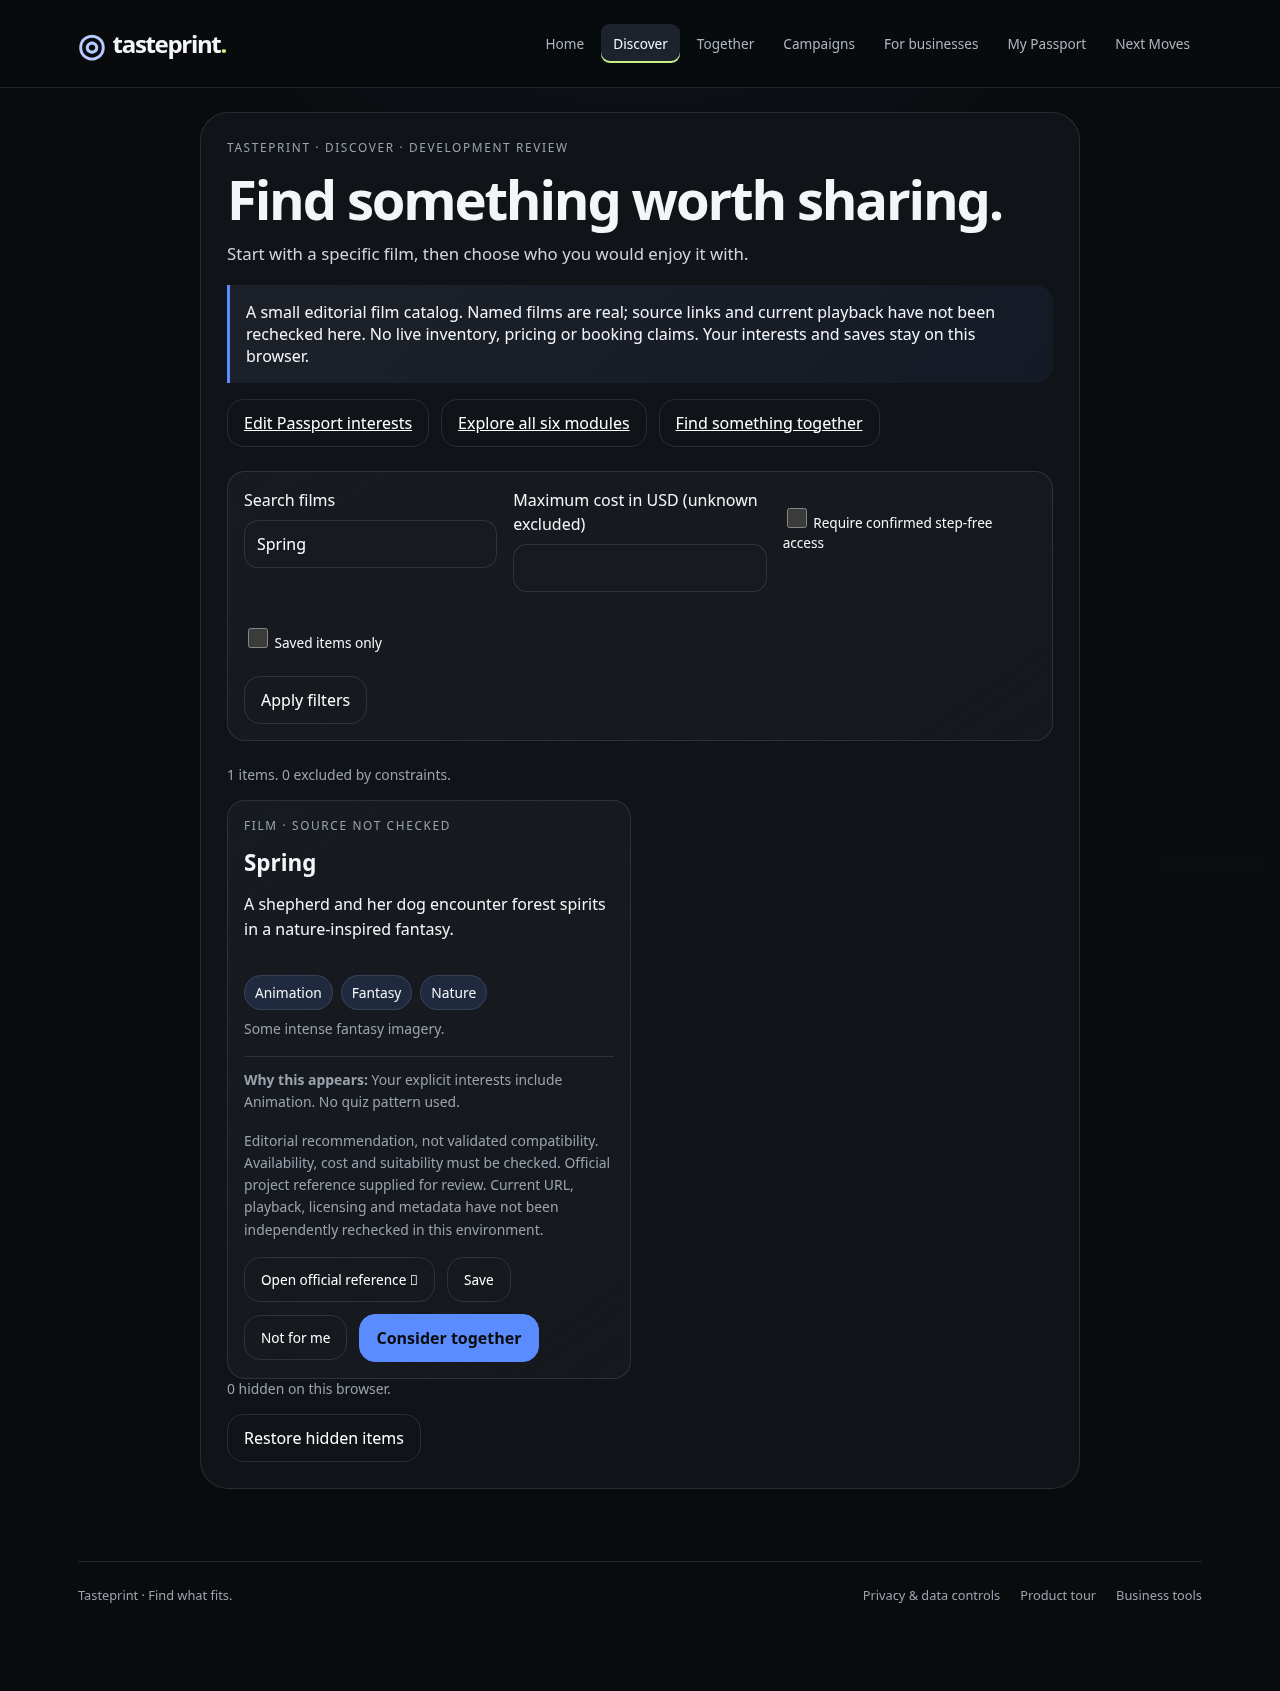
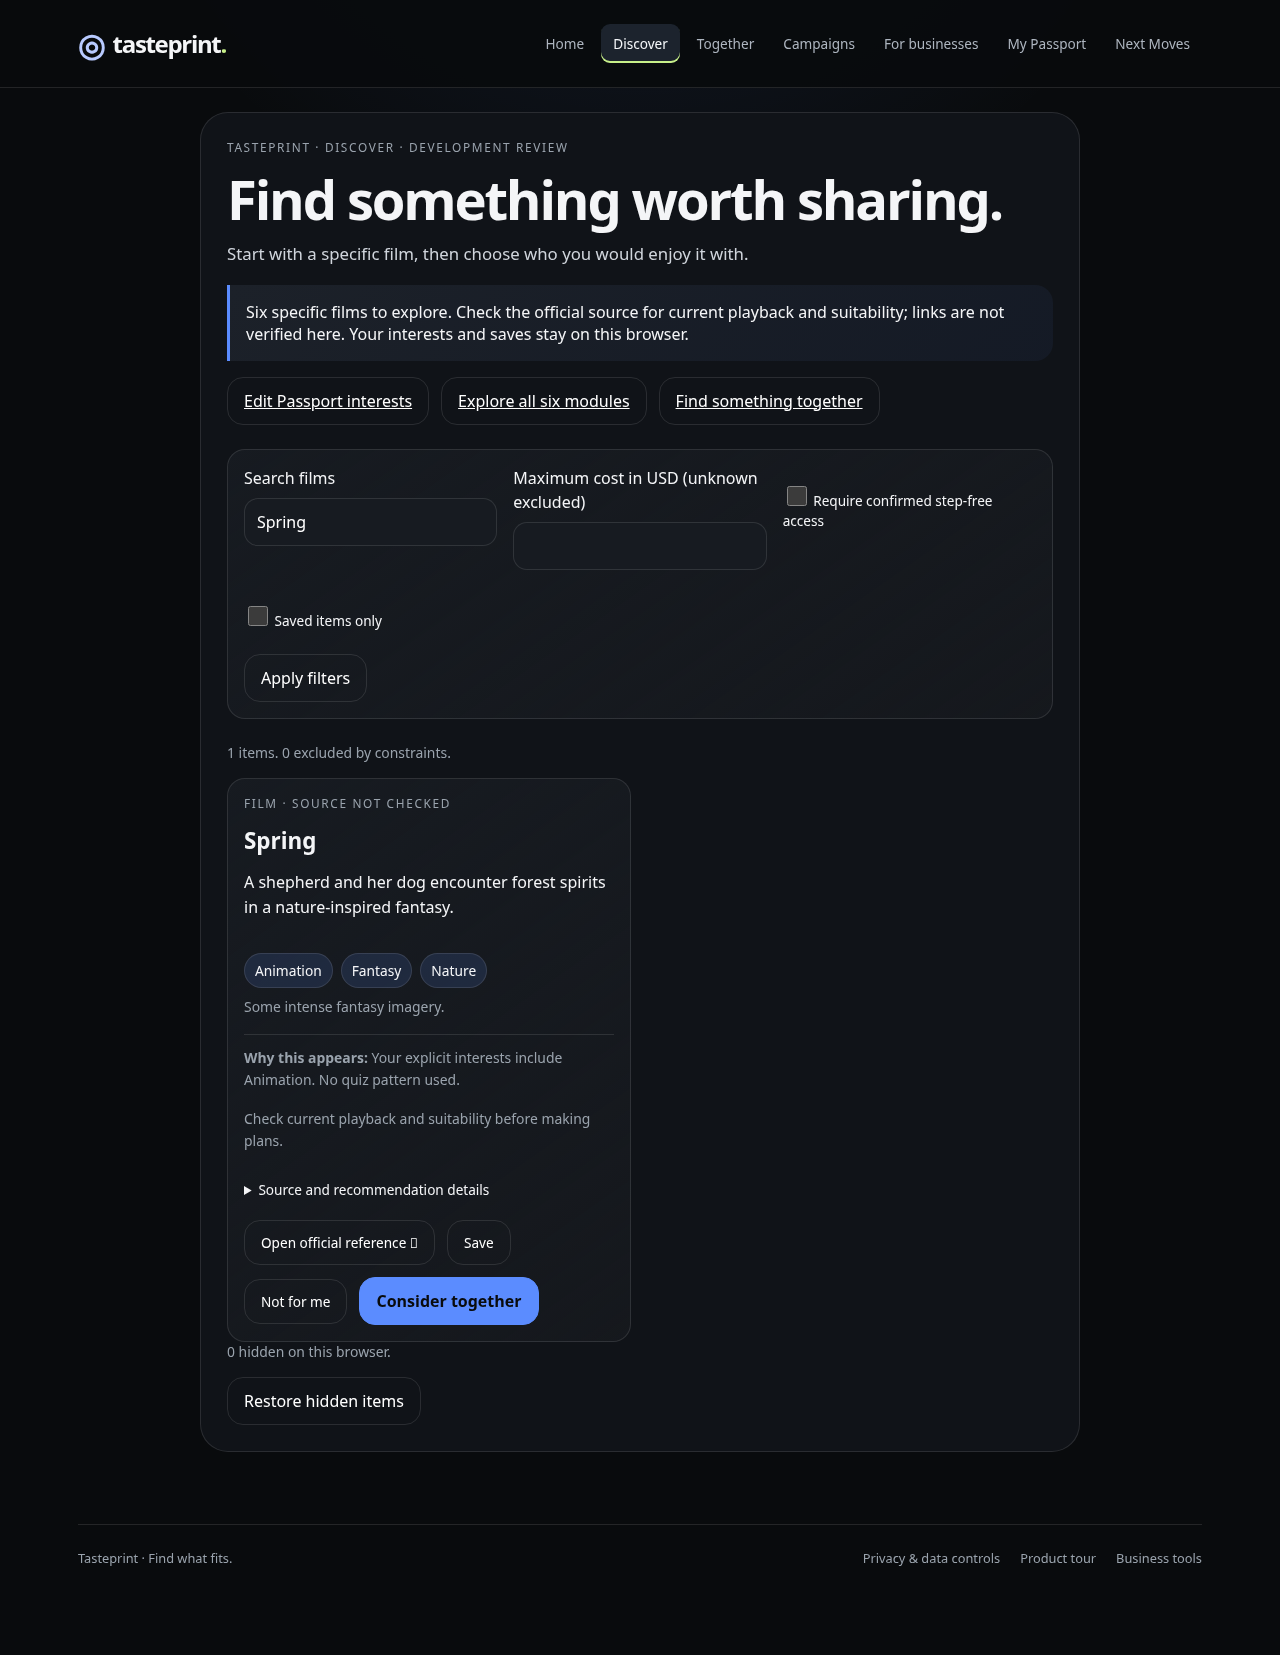
Record current walkthrough and visual checks; guard preview port collisions

diff --git a/scripts/check-review-startup.js b/scripts/check-review-startup.js
@@ -1,0 +1,15 @@
+// An existing HTTP server must never be mistaken for this branch's production preview.
+import { createServer } from 'node:http';
+import { spawn } from 'node:child_process';
+import assert from 'node:assert/strict';
+const occupied = createServer((request,response)=>{response.writeHead(200,{'Content-Type':'text/html'});response.end('<h1>Unrelated preview</h1>');});
+await new Promise(resolve=>occupied.listen(0,'127.0.0.1',resolve));
+const child = spawn(process.execPath,['scripts/review.js','--check'],{env:{...process.env,TASTEPRINT_REVIEW_PORT:String(occupied.address().port)},stdio:['ignore','pipe','pipe']});
+let output='';const collect=data=>{output+=data;if(output.includes('LOCAL REVIEW:'))child.kill('SIGTERM');};
+child.stdout.on('data',collect);child.stderr.on('data',collect);
+const timeout=setTimeout(()=>child.kill('SIGTERM'),20000);
+try{
+ const code=await new Promise((resolve,reject)=>{child.once('error',reject);child.once('exit',resolve);});
+ assert.equal(code,1,'occupied port must fail clearly');assert.doesNotMatch(output,/LOCAL REVIEW:/,'must not announce an unrelated server as ready');assert.match(output,/already in use/);
+ console.log('Preview startup PASS: an occupied HTTP port fails before browser tests or a ready claim.');
+}finally{clearTimeout(timeout);child.kill('SIGTERM');await new Promise(resolve=>occupied.close(resolve));}

diff --git a/README.md b/README.md
@@ -303,7 +303,7 @@ Navigation and modular expansion: see [UX_ARCHITECTURE.md](UX_ARCHITECTURE.md).
 
 ### Together review prototype
 
-On the TasteSocial review branch, open `?together=1` for selected Passport preference sharing, joint activity ideas and an explicitly local two-person plan simulation. Existing modules, dark styling and optional campaigns remain. No social backend or remote agreement is active; reload clears plans. See [the walkthrough and boundaries](docs/TOGETHER_REVIEW.md) and [current Build Bible](docs/TASTESOCIAL_BUILD_BIBLE.md). Run `npm run test:together` and `npm run test:together:browser` for focused checks.
+On the TasteSocial review branch, open `?together=1` for selected Passport interest sharing, specific film shortlists and an explicitly local two-person plan simulation. Existing modules, dark styling and optional campaigns remain. No social backend or remote agreement is active; reload clears plans. See [the walkthrough and boundaries](docs/TOGETHER_ITEMS_REVIEW.md) and [current Build Bible](docs/TASTESOCIAL_BUILD_BIBLE.md). Run `npm run test:together` and `npm run test:together:browser` for focused checks.
 
 ### Consolidated development review (no deployment)
 

diff --git a/docs/TOGETHER_ITEMS_REVIEW.md b/docs/TOGETHER_ITEMS_REVIEW.md
@@ -21,3 +21,5 @@ Validation: full 22-suite npm test and production build; five Playwright suites 
 ## Ordered next milestone
 
 First verify the official film references and content metadata manually (outbound access to the publisher is blocked here), then run a founder-led synthetic walkthrough against normal chat. No real-person recruitment or data collection has been initiated. Before any actual account-connected pilot, approve a minimal staging configuration/cost envelope and security acceptance matrix below. Public nearby discovery, Circles, contributor administration and commercial features stay later priorities.
+
+Interactive local production preview is running at http://127.0.0.1:4194/tasteprint/ in this workspace with backend configuration cleared. Reproduce with `TASTEPRINT_REVIEW_PORT=4194 npm run review` (or the default free port 4193). This is not a public deployment. `test:preview` now also proves an occupied HTTP port cannot be mistaken for the requested build.

diff --git a/docs/ITEM_DISCOVERY_REVIEW.md b/docs/ITEM_DISCOVERY_REVIEW.md
@@ -1,5 +1,7 @@
 # Editable interests and specific-item discovery
 
+This records the #17 increment. Subsequent Together integration is documented in [TOGETHER_ITEMS_REVIEW.md](TOGETHER_ITEMS_REVIEW.md).
+
 Based on the consolidated review build (#16), without modifying its branch or earlier PRs.
 
 Users can optionally select likes/avoids and approve individual liked interests for future friend links in Passport, with no new quiz. Existing quiz history/scoring remains unchanged. `?discover=1` recommends six named Blender films from a validated editorial catalog; users can search, save, hide, restore and consider an item together. New preferences and item decisions remain local, exportable and clearable, separate from existing account sync.

diff --git a/docs/TOGETHER_REVIEW.md b/docs/TOGETHER_REVIEW.md
@@ -1,5 +1,7 @@
 # Together prototype review
 
+Historical score-only prototype (#15). See [the current specific-item walkthrough](TOGETHER_ITEMS_REVIEW.md) for the subsequent development build.
+
 TasteSocial now takes consumer social discovery priority per the founder’s latest instruction and full Build Bible retained in TASTESOCIAL_BUILD_BIBLE.md. Older B2B-first plans remain historical; security and release gates continue to apply. PR #13 remains unmerged; this work stacks on Phase 0, without changing earlier PRs or original dirty work.
 
 ## Five-minute walkthrough
